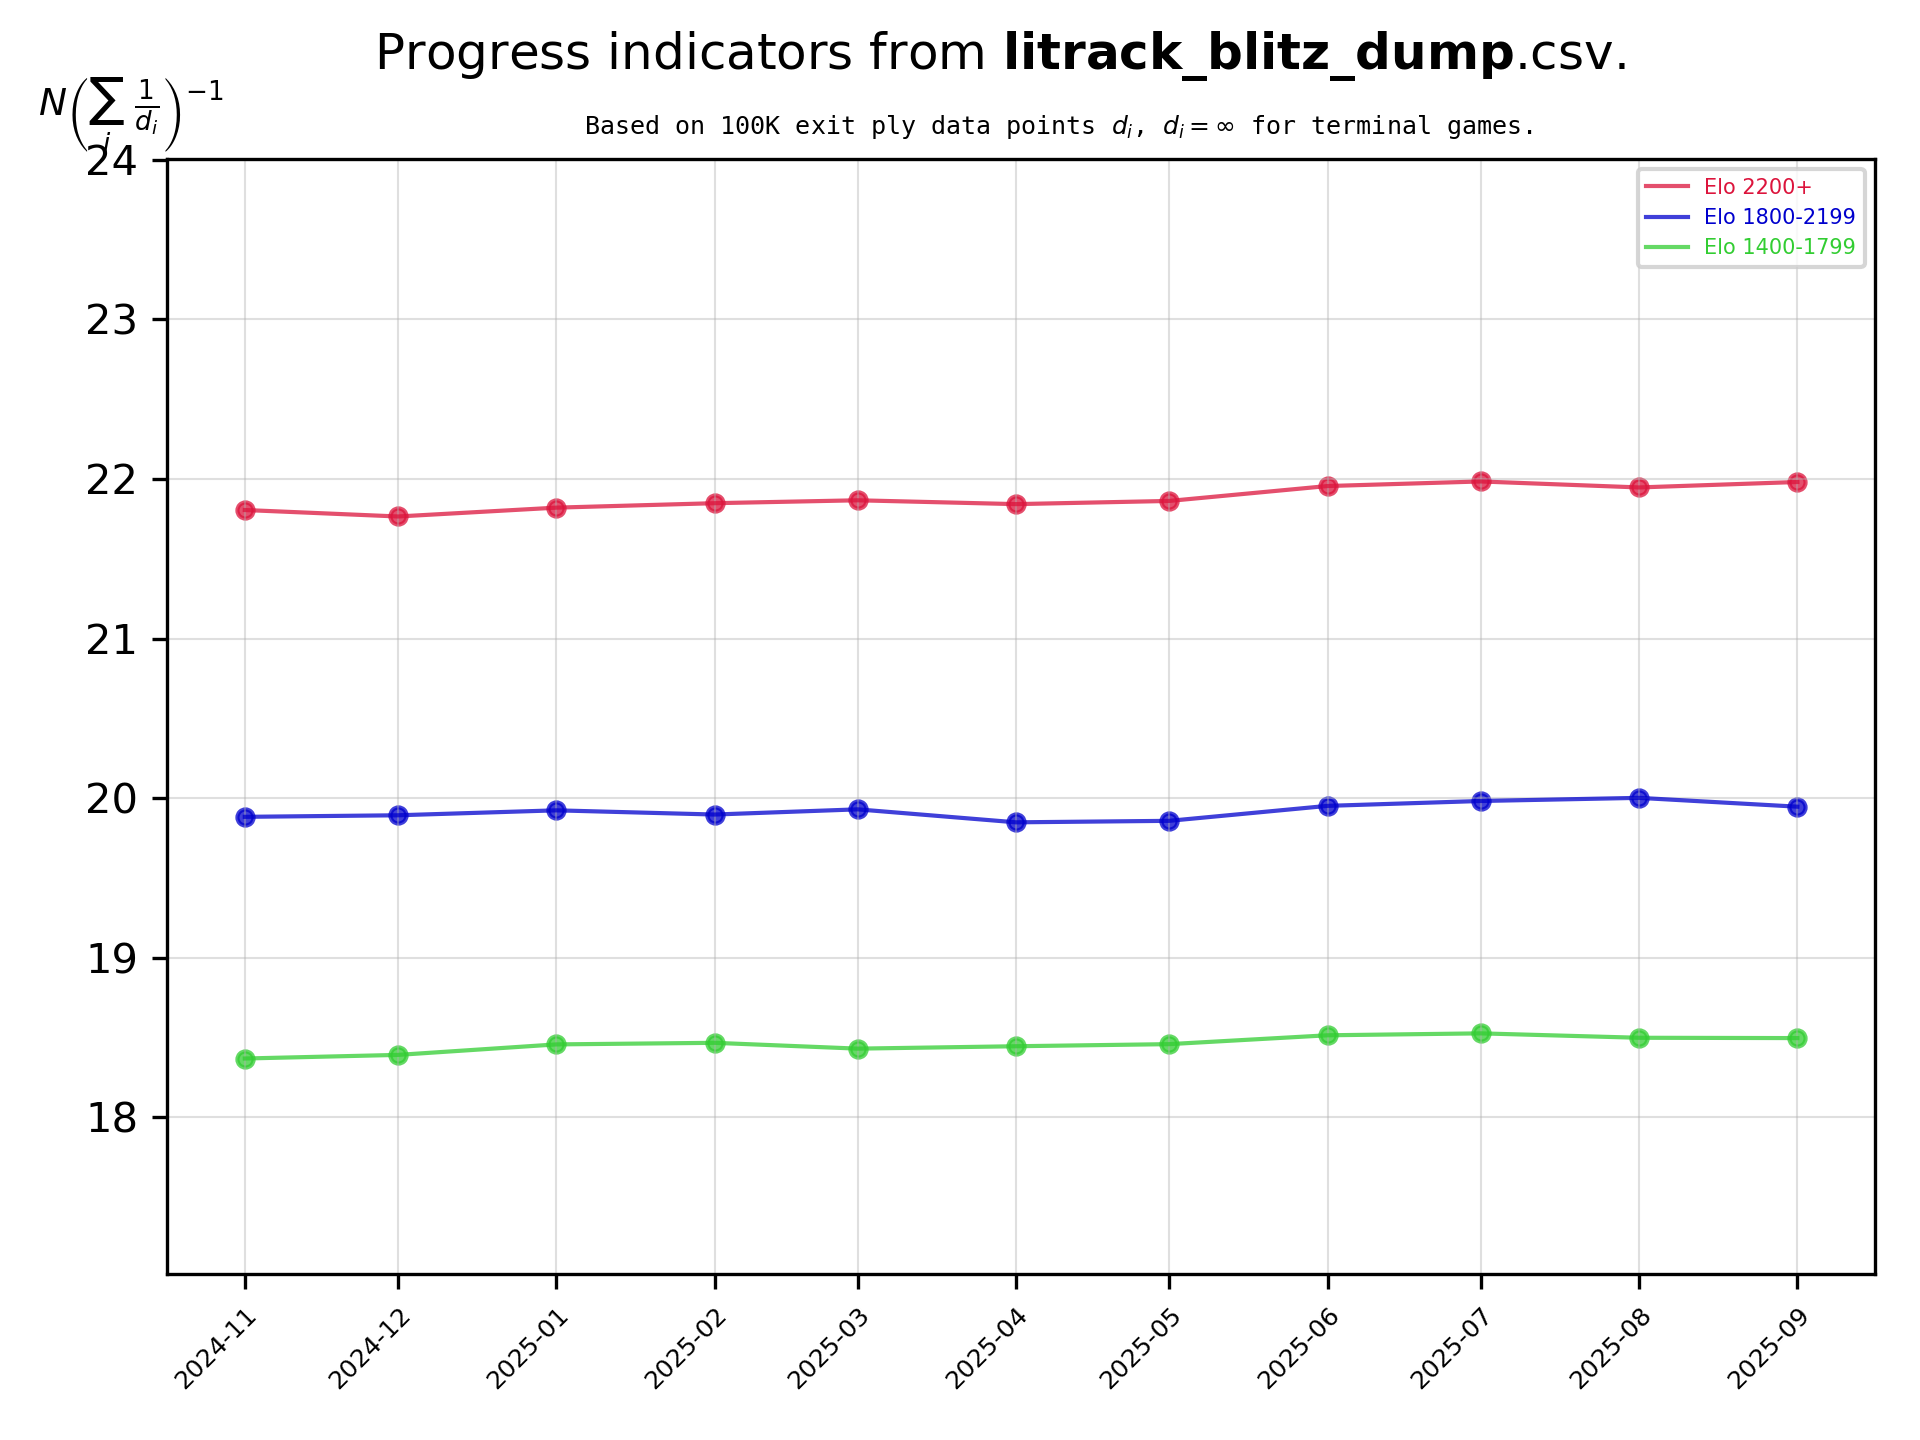
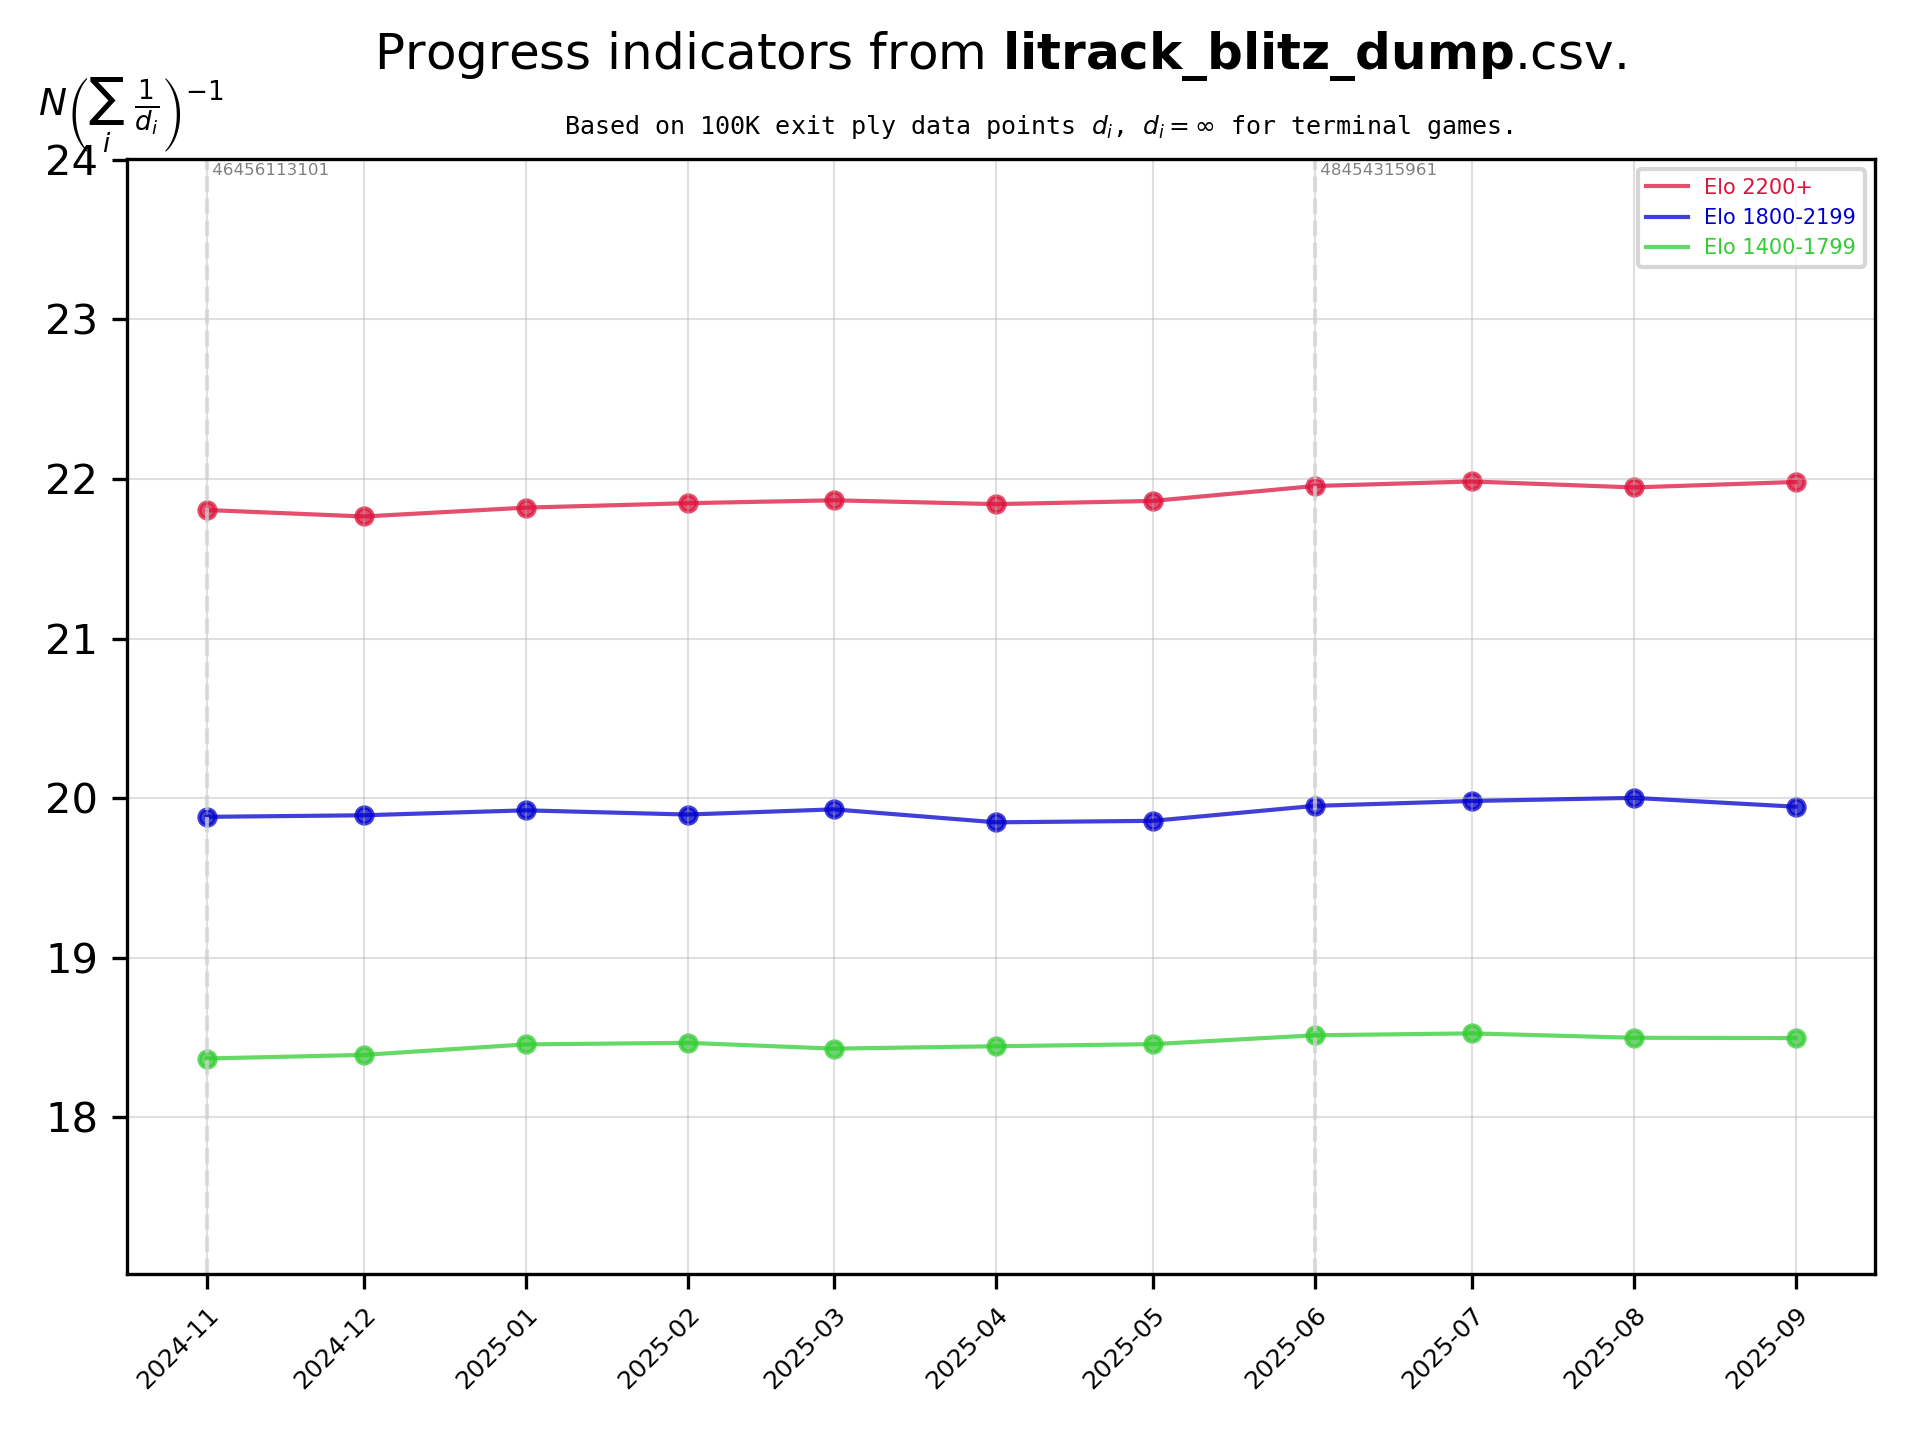
show dump benches in plot (#3)

diff --git a/plotdata.py b/plotdata.py
@@ -46,6 +46,7 @@ class litrackdata:
         self.elo_buckets = 3
         self.depths = [[] for _ in range(self.elo_buckets)]  # depth distributions
         self.eloStr = [""] * self.elo_buckets
+        self.benches = None
         with open(prefix + ".csv") as f:
             for line in f:
                 line = line.strip()
@@ -53,10 +54,13 @@ class litrackdata:
                     fields = line.split(",")
                     for elo in range(self.elo_buckets):
                         self.eloStr[elo] = fields[2 + elo]
+                    if "Bench" in line:
+                        self.benches = []
                 elif line:
                     fields = line.split(",")
-                    month = fields[0]
-                    self.date.append(month)
+                    self.date.append(fields[0])
+                    if self.benches is not None:
+                        self.benches.append(int(fields[1]))
                     for elo in range(self.elo_buckets):
                         dictStr = fields[2 + elo].replace(";", ",")
                         self.depths[elo].append(ast.literal_eval(dictStr))
@@ -157,14 +161,13 @@ class litrackdata:
 
     def create_timeseries_graph(self, yrange, plotStart=0):
         dateData = [datetime.fromisoformat(d + "-01") for d in self.date[plotStart:]]
+        benchData = None if self.benches is None else self.benches[plotStart:]
         depthsData = [[] for _ in range(self.elo_buckets)]
         minNoP = [10**10] * self.elo_buckets
         maxNoP = [0] * self.elo_buckets
 
         fig, ax = plt.subplots()
         dateColor = "black"
-        # eloColor = ['royalblue', 'darkorange', 'forestgreen']
-        # eloColor = ['mediumaquamarine', 'coral', 'cornflowerblue']
         eloColor = ["crimson", "mediumblue", "limegreen"]
         if len(dateData) >= 200:
             depthDotSize, depthLineWidth, depthAlpha = 2, 0.7, 0.75
@@ -227,12 +230,31 @@ class litrackdata:
             fontsize=6,
             family="monospace",
         )
-        fig.tight_layout(rect=[0, 0, 1, 1.03])
         if yrange is not None:
             ax.set_ylim(yrange)
         ymin, ymax = ax.get_ylim()
         print(f"Time y-range: {ymin} {ymax}")
 
+        if benchData is not None:
+            for i in range(len(benchData)):
+                if i == 0 or benchData[i] != benchData[i - 1]:
+                    ax.axvline(
+                        x=dateData[i],
+                        color="lightgray",
+                        linestyle="--",
+                        linewidth=1,
+                        alpha=0.7,
+                    )
+                    ax.text(
+                        x=dateData[i],
+                        y=0.999 * ymax,
+                        s=f" {benchData[i]}",
+                        verticalalignment="top",
+                        fontsize=4,
+                        color="gray",
+                    )
+
+        fig.tight_layout(rect=[0, 0, 1, 1.03])
         plt.savefig(
             self.prefix + "time" + bool(plotStart) * str(plotStart) + ".png", dpi=300
         )

diff --git a/Readme.md b/Readme.md
@@ -86,10 +86,9 @@ Hence $D$ is an approximation of the games' average exit ply on cdb.
 </table>
 
 <sup>
-Dump benches:
-2024-11 - 2025-05: 46456113101,
-2025-06 - present: 48454315961.
-See <a href="https://huggingface.co/datasets/robertnurnberg/chessdbcn">
+The progress indicator plots identify the dump used for each data point via
+the total number of positions in the dump, see
+<a href="https://huggingface.co/datasets/robertnurnberg/chessdbcn">
 Hugging Face</a>.
 </sup>
 
